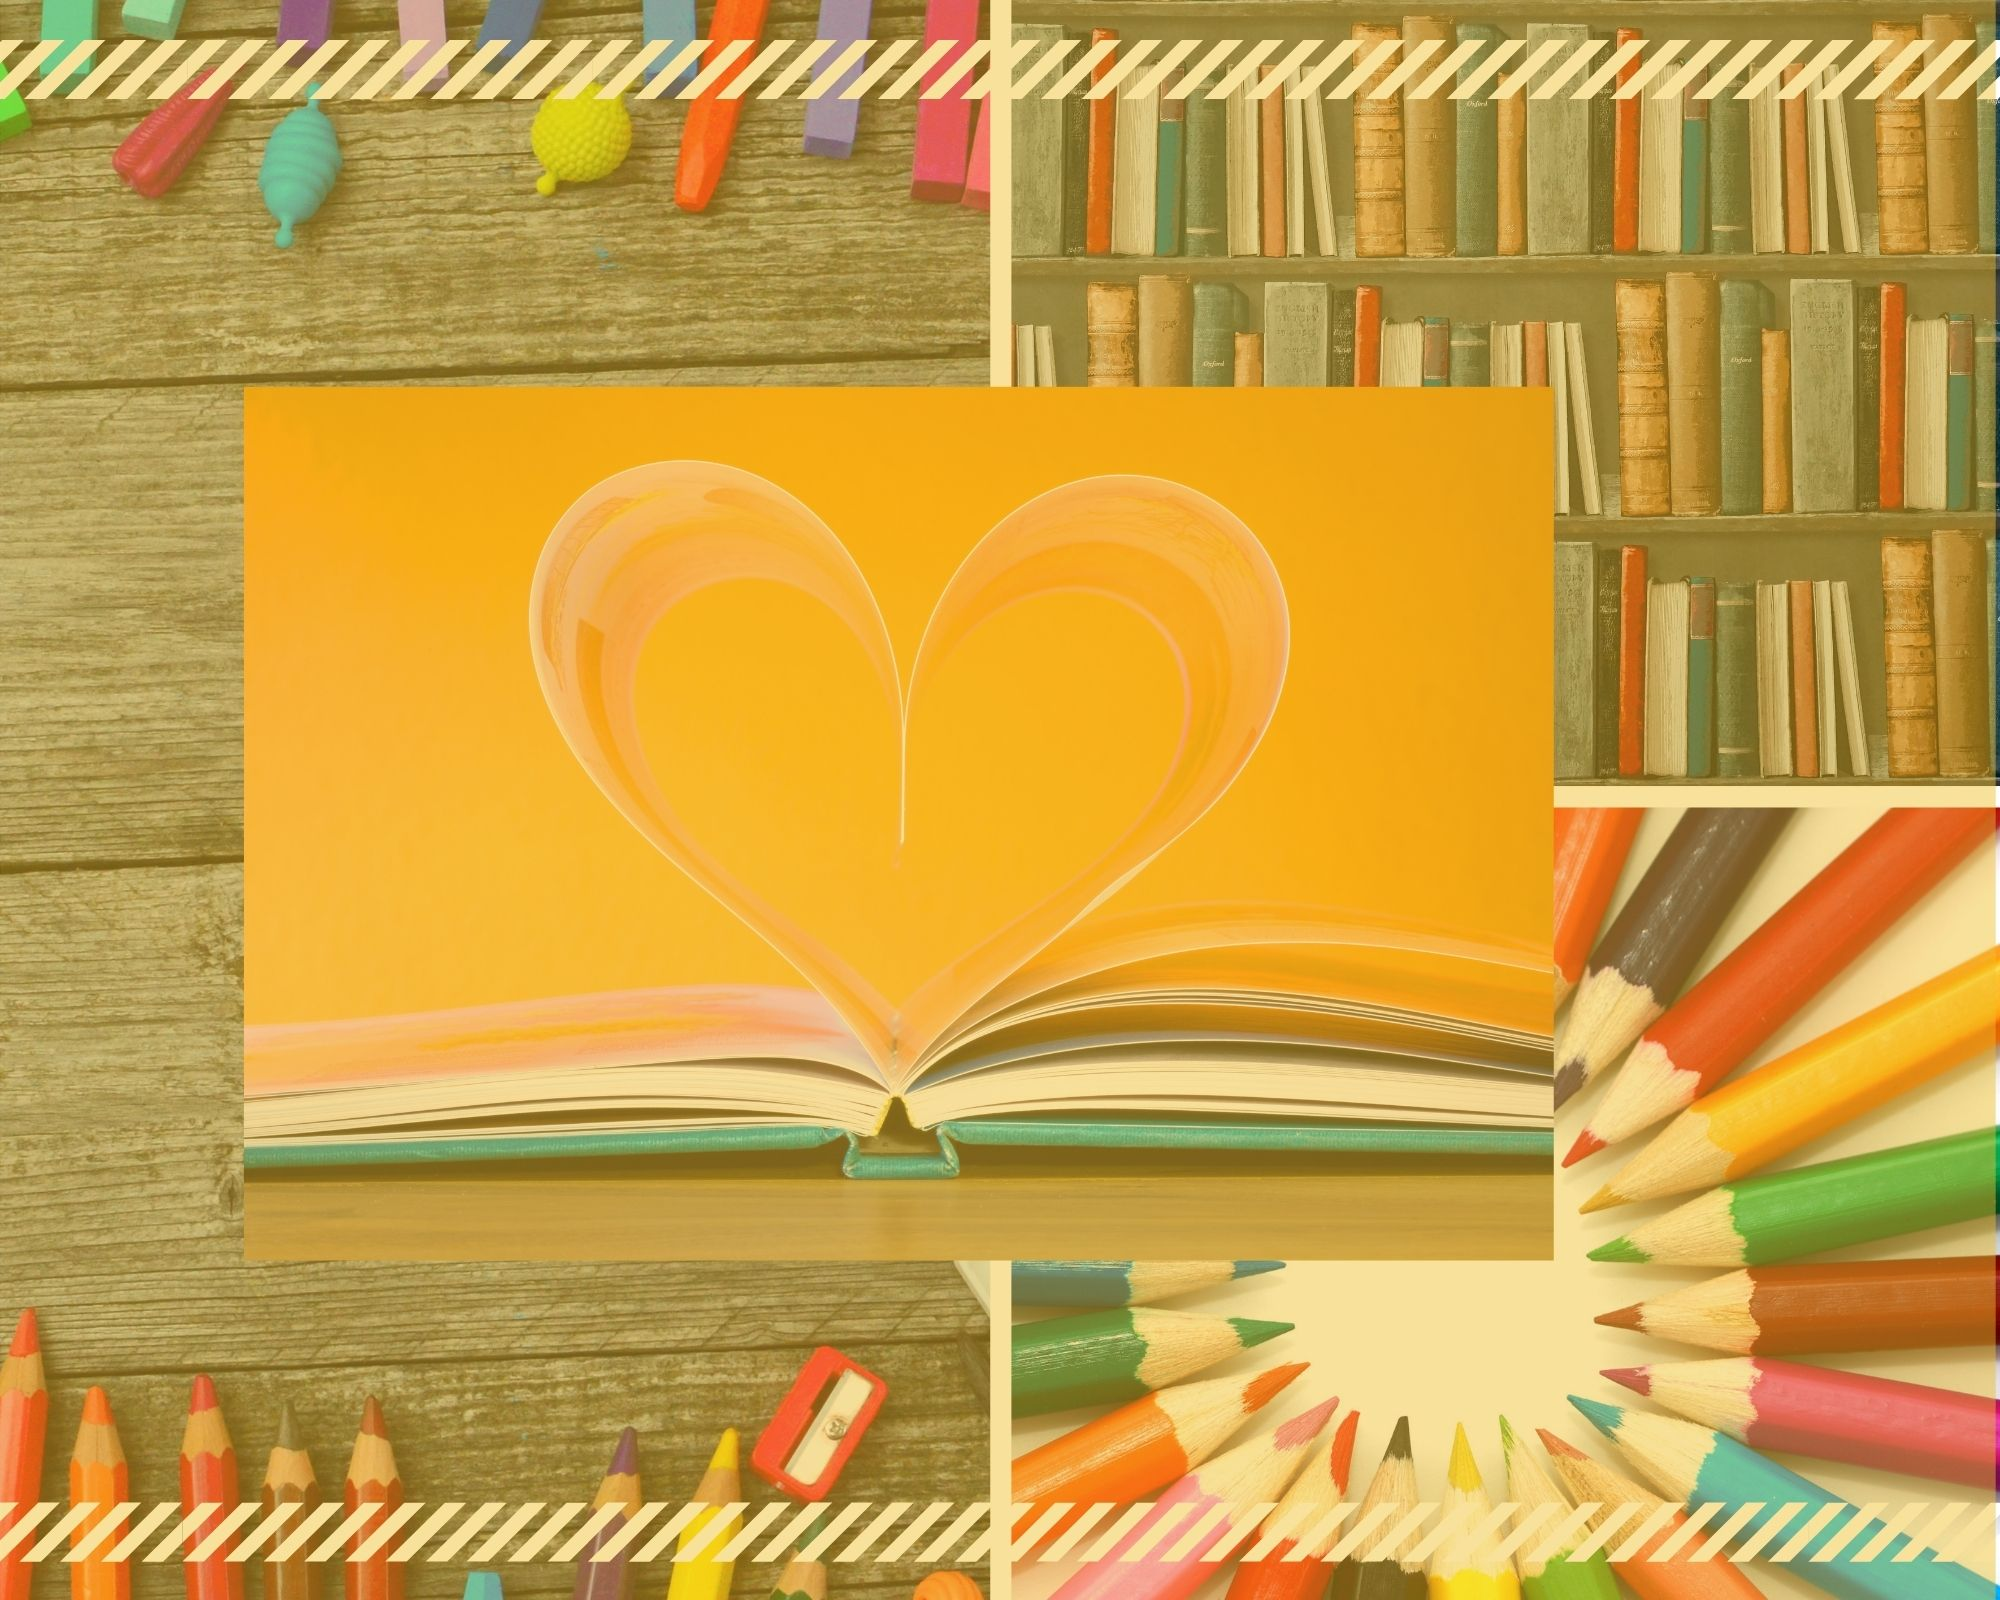
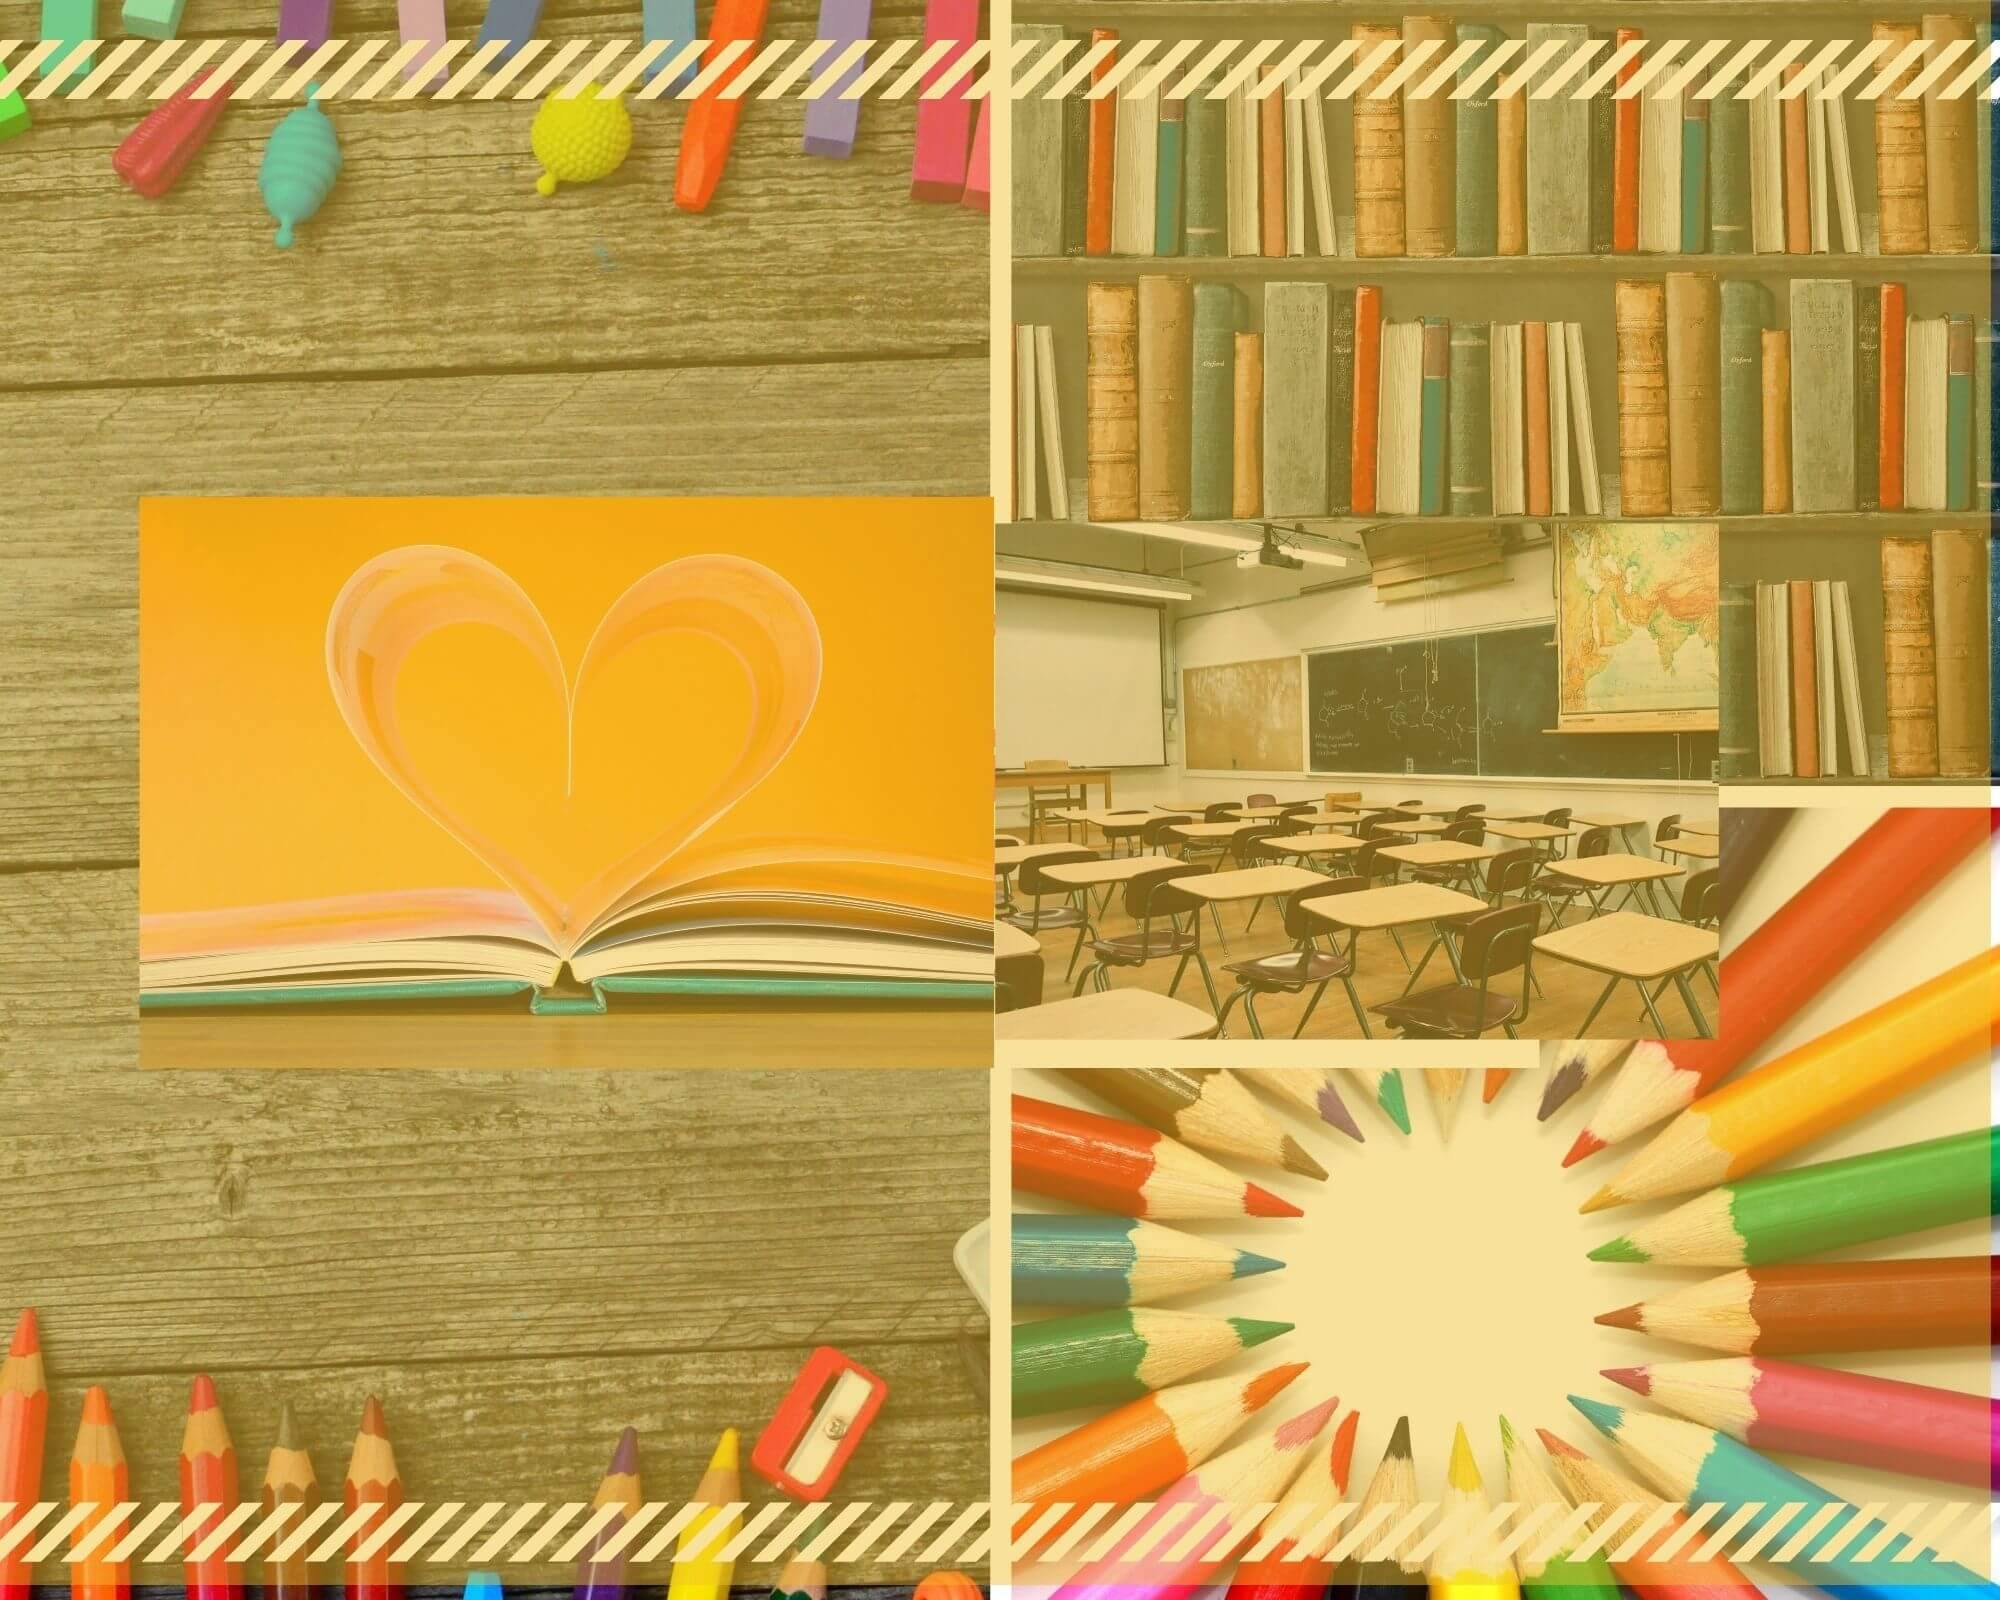
comprimindo imagens e fazendo alterações no index

diff --git a/index.html b/index.html
@@ -64,7 +64,7 @@
         <div id="quemSomos" class="quemSomos">
             <div class="content">
                 <div>
-                    <h1>Quem somos</h1>
+                    <h1>Quem somos?</h1>
                     <p>
                         A educação foi uma peça importantíssima na evolução mundial, abrindo portas e construindo
                         melhores oportunidades de vida para os jovens de todas as partes do mundo. Infelizmente por
@@ -100,7 +100,7 @@
                     </p>
                 </div>
                 <figure>
-                    <img src="img/index/garotoBinoculo.jpg" alt="Garoto entre livros usando binóculos">
+                    <img src="img/itec/iteccapa2.png" alt="Logo Itec">
                 </figure>
             </div>
             <hr class="center-ball">
@@ -119,26 +119,26 @@
             <div class="row">
                 <div class="col-sm-6">
                     <div class="card">
-                        <img src="..." class="card-img-top" alt="...">
+                        <img src="img/estudantes/estudante5.jpg" class="card-img-top" alt="Garoto com binóculos">
                         <div class="card-body">
                             <h5 class="card-title">Jogos</h5>
                             <p class="card-text">Desde ensino e apoio, nossa plataforma de estudos oferece um
                                 ambiente divertido e prazeroso com jogos educativos.
                             </p>
-                            <a href="#" class="btn btn-primary">Jogar<i class="fas fa-long-arrow-alt-right"></i></a>
+                            <a href="#" class="btn btn-primary">Jogar<i class="fas fa-long-arrow-alt-right icon-seta"></i></a>
                         </div>
                     </div>
                 </div>
                 <div class="col-sm-6">
                     <div class="card">
-                        <img src="..." class="card-img-top" alt="...">
+                        <img src="img/paisagem/paisagem5.jpg" class="card-img-top" alt="Imagem árvores">
                         <div class="card-body">
                             <h5 class="card-title">Excursões</h5>
                             <p class="card-text">Já pensou em visitar lugares como o Egito antigo, ver fósseis de
                                 criaturas que passaram pela terra a milhões de anos, ou até mesmo ver lindas obras de
                                 artes em galerias renomadas sem sair da sua casa? Com a ITEC você pode, através do
                                 espaço de simulador excursões presente em nossa plataforma.</p>
-                            <a href="#" class="btn btn-primary">Viajar<i class="fas fa-long-arrow-alt-right"></i></a>
+                            <a href="#" class="btn btn-primary">Viajar<i class="fas fa-long-arrow-alt-right icon-seta"></i></a>
                         </div>
                     </div>
                 </div>
@@ -161,21 +161,21 @@
                     <div class="row">
                         <div class="col-sm-6">
                             <div class="card">
-                                <img src="img/index/garotoBinoculo.jpg" class="card-img-top" alt="...">
+                                <img src="img/estudantes/estudante6.jpg" class="card-img-top" alt="...">
                                 <div class="card-body">
                                     <h5 class="card-title">Vagas de psicologia</h5>
                                     <p class="card-text">Veja mais sobre as vagas</p>
-                                    <a href="#" class="btn btn-primary">Go somewhere</a>
+                                    <a href="#" class="btn btn-primary">Ver mais<i class="fas fa-long-arrow-alt-right icon-seta"></i></a>
                                 </div>
                             </div>
                         </div>
                         <div class="col-sm-6">
                             <div class="card">
-                                <img src="img/index/pessoasEstudando.jpg" class="card-img-top" alt="...">
+                                <img src="img/estudantes/estudante7.jpg" class="card-img-top" alt="...">
                                 <div class="card-body">
                                     <h5 class="card-title">Vagas de licenciatura</h5>
                                     <p class="card-text">Veja mais sobre as vagas</p>
-                                    <a href="#" class="btn btn-primary">Go somewhere</a>
+                                    <a href="#" class="btn btn-primary">Ver mais<i class="fas fa-long-arrow-alt-right icon-seta"></i></a>
                                 </div>
                             </div>
                         </div>
@@ -184,8 +184,100 @@
             </div>
         </div>
         <!--Fim monitoria-->
+        <hr class="center-ball">
+        <!--Suporte Taylor-->
+        <div id="suporte" class="suporte">
+            <div class="content">
+                <div>
+                    <h1>Taylor, nossa IA</h1>
+                    <p>
+                        Estudante, 2º ano do Ensino Médio, fica muito ansiosa por não ter contato
+                        com as pessoas, por isso ela está aqui pra te ajudar com os mais diversos problemas
+                        dentro da nossa plataforma. Qualquer problema é só chamar ela, vai ficar feliz por te
+                        conhecer, e quanto mais conversar com ela mais esperta vai ficar.
+                    </p>
+                    <a href="#" class="btn btn-primary">Descubra!<i class="fas fa-long-arrow-alt-right icon-seta"></i></a>
+                </div>
+                <figure>
+                    <img src="img/taylor/taylor1.jpg" alt="Garoto entre livros usando binóculos">
+                </figure>
+            </div>
+        </div>
+        <!--Fim suporte Taylor-->
     </section>
     <!-- Fim corpo da página com margem-->
+
+    <!--Footer-->
+    <footer class="text-center text-white" style="background-color: #f1f1f1;">
+        <!-- Grid container -->
+        <div class="container pt-4">
+          <!-- Section: Social media -->
+          <section class="mb-4">
+            <!-- Facebook -->
+            <a
+              class="btn btn-link btn-floating btn-lg text-dark m-1"
+              href="#!"
+              role="button"
+              data-mdb-ripple-color="dark"
+              ><i class="fab fa-facebook-f"></i
+            ></a>
+      
+            <!-- Twitter -->
+            <a
+              class="btn btn-link btn-floating btn-lg text-dark m-1"
+              href="#!"
+              role="button"
+              data-mdb-ripple-color="dark"
+              ><i class="fab fa-twitter"></i
+            ></a>
+      
+            <!-- Google -->
+            <a
+              class="btn btn-link btn-floating btn-lg text-dark m-1"
+              href="#!"
+              role="button"
+              data-mdb-ripple-color="dark"
+              ><i class="fab fa-google"></i
+            ></a>
+      
+            <!-- Instagram -->
+            <a
+              class="btn btn-link btn-floating btn-lg text-dark m-1"
+              href="#!"
+              role="button"
+              data-mdb-ripple-color="dark"
+              ><i class="fab fa-instagram"></i
+            ></a>
+      
+            <!-- Linkedin -->
+            <a
+              class="btn btn-link btn-floating btn-lg text-dark m-1"
+              href="#!"
+              role="button"
+              data-mdb-ripple-color="dark"
+              ><i class="fab fa-linkedin"></i
+            ></a>
+            <!-- Github -->
+            <a
+              class="btn btn-link btn-floating btn-lg text-dark m-1"
+              href="#!"
+              role="button"
+              data-mdb-ripple-color="dark"
+              ><i class="fab fa-github"></i
+            ></a>
+          </section>
+          <!-- Section: Social media -->
+        </div>
+        <!-- Grid container -->
+      
+        <!-- Copyright -->
+        <div class="text-center text-dark p-3" style="background-color: rgba(0, 0, 0, 0.2);">
+          © 2020 Copyright:
+          <a class="text-dark" href="https://mdbootstrap.com/">MDBootstrap.com</a>
+        </div>
+        <!-- Copyright -->
+      </footer>
+    <!--Fim footer-->
 
     <!--jQuery and Bootstrap Bundle (includes Popper) -->
     <script src="https://code.jquery.com/jquery-3.5.1.slim.min.js"
@@ -197,6 +289,8 @@
 
     <!--Script FontAwesome-->
     <script src="https://kit.fontawesome.com/c211f64b9a.js" crossorigin="anonymous"></script>
+    <!--Script de design-->
+    <script src="js/scripts.js"></script>
 </body>
 
 </html>

diff --git a/css/indexStyle.css b/css/indexStyle.css
@@ -3,8 +3,18 @@ RGB DO AMARELO --> (254,179,0)
 As outras cores são preto, branco e um amarelo clarinho...
 RGB DO AMARELO CLARINHO --> (255,250,186)*/
 
+/*Auxs*/
 *{
     scroll-behavior: smooth;
+}
+
+.icon-seta{
+    margin-top: 5px;
+    margin-left: 10px;
+}
+
+img{
+    border: 1px rgb(138,32,45) dashed;
 }
 
 /*Custom hr's*/
@@ -36,7 +46,8 @@ hr {
 
 /*Formatação banner*/
 .banner{
-    background-image: url(../img/index/banner.jpg);
+    background-image: url(../img/login/bg-01.jpg);
+    background-position: center;
     background-size: cover;
     background-repeat: no-repeat;
     background-attachment: fixed;
@@ -85,8 +96,9 @@ hr {
 }
 
 .quemSomos .content figure img{
-    max-width:750px;
-    width: 100%;
+    max-height:750px;
+    height: 100%;
+    text-align: center;
 }
 
 .ytVideoContainer{
@@ -115,11 +127,6 @@ hr {
     margin: 50px;
 }
 
-.entreterimento a i{
-    margin-top: 5px;
-    margin-left: 10px;
-}
-
 /*Monitoria*/
 .monitoria{
     margin-top: 50px;
@@ -132,3 +139,25 @@ hr {
 .monitoria .jumbotron p{
     font-weight: 300;
 }
+
+/*Suporte Taylor*/
+.suporte .content div p{
+    margin-top: 60px;
+    max-width: 1000px;
+}
+
+.suporte .content{
+    display: flex;
+    justify-content: space-between;
+    flex-wrap: wrap-reverse;
+    align-items: center;
+    text-align: center;
+}
+
+.suporte .content figure img{
+    margin-bottom: 20px;
+    max-width:750px;
+    width: 100%;
+}
+
+/*Footer*/
